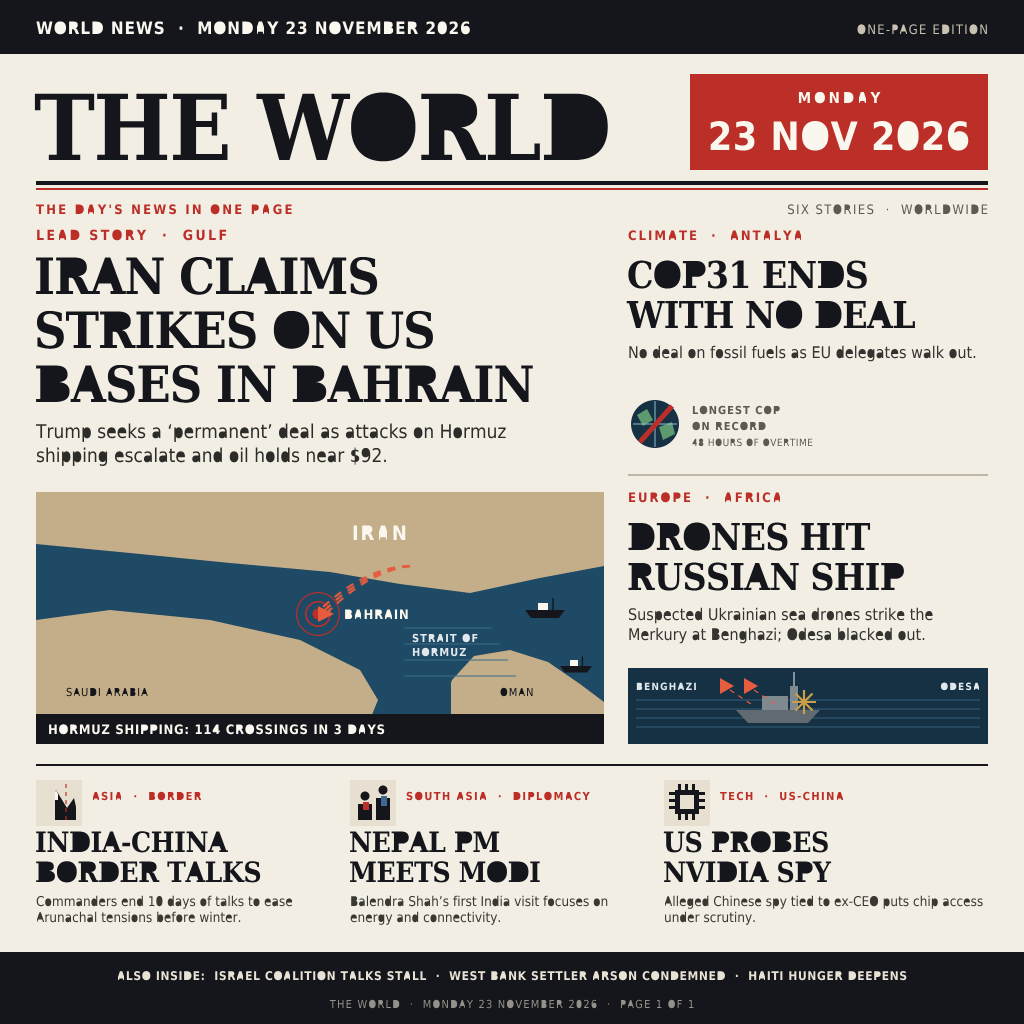
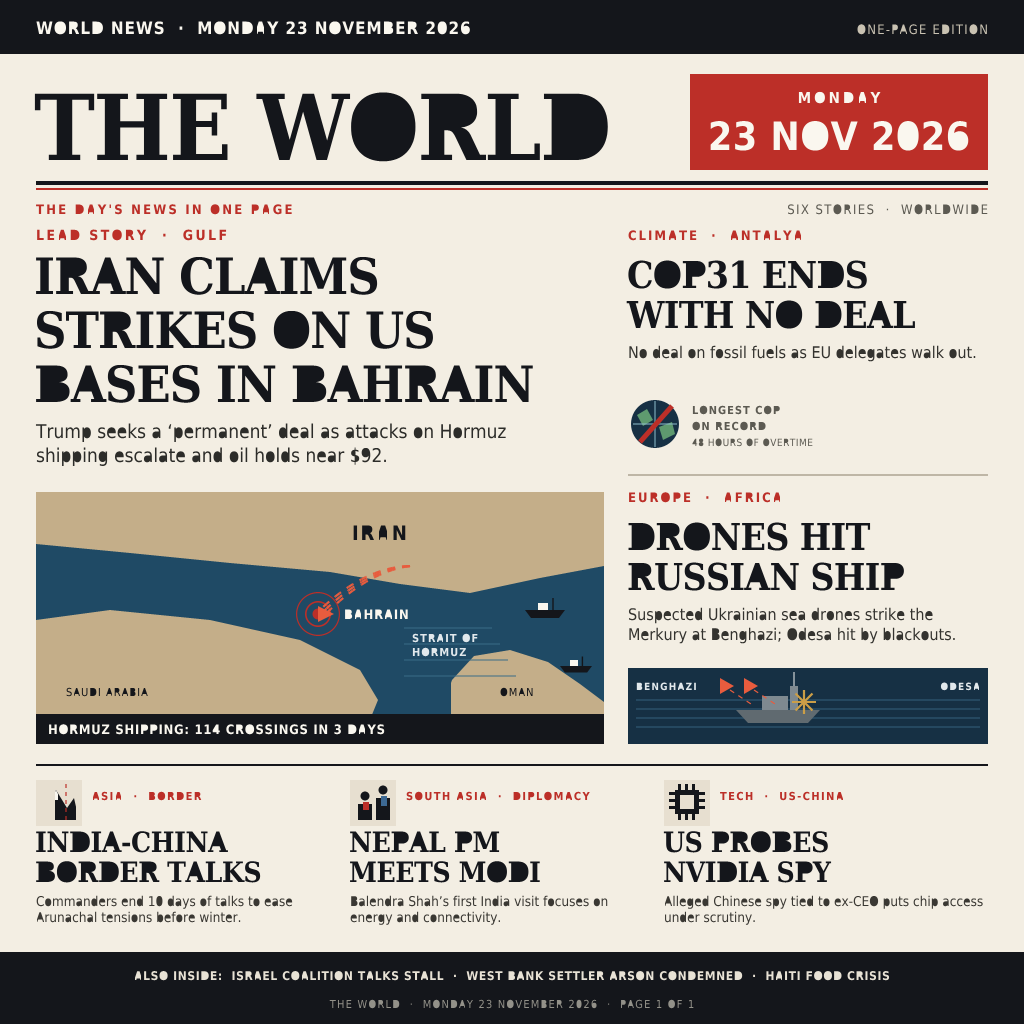
Tighten story labels and name the signing wallet as owner
Keeps the page strictly to what was reported and makes the repository proof
match the keypair that signs the entry.

🤖 Generated with Codebuff

Changed region(s): [[0.125, 0.9375, 0.875, 0.9688], [0.8125, 0.5938, 0.9375, 0.625], [0.3438, 0.5, 0.4062, 0.5312]]

diff --git a/main.py b/main.py
@@ -295,7 +295,7 @@ disc(318, 614, 5.5, RED)
 ring(318, 614, 13, 1.6, RED, 0.75)
 ring(318, 614, 22, 1.2, RED, 0.45)
 text(344, 619, 'BAHRAIN', 'sansb', 13, WHITE, 0.8)
-text(352, 540, 'IRAN', 'sansb', 20, WHITE, 1.8)
+text(352, 540, 'IRAN', 'sansb', 20, INK, 1.8)
 text(66, 696, 'SAUDI ARABIA', 'sans', 11, INK, 1.0)
 text(500, 696, 'OMAN', 'sans', 11, INK, 1.0)
 # strike arcs from Iran to Bahrain
@@ -347,7 +347,7 @@ fill_rect(RX0, 474, RX1, 476, (190, 182, 166))
 text(RX0, 502, 'EUROPE  ·  AFRICA', 'sansb', 13, RED, 2.0)
 text(RX0 - 1, 550, 'DRONES HIT', 'serif', 37, INK, -0.6)
 text(RX0 - 1, 590, 'RUSSIAN SHIP', 'serif', 37, INK, -0.6)
-paragraph(RX0, 620, 'Suspected Ukrainian sea drones strike the Merkury at Benghazi; Odesa blacked out.',
+paragraph(RX0, 620, 'Suspected Ukrainian sea drones strike the Merkury at Benghazi; Odesa hit by blackouts.',
           'sans', 16, 352, 20, (52, 51, 47))
 # sea strip with ship and drones
 fill_rect(RX0, 668, RX1, 744, DEEP)
@@ -407,7 +407,7 @@ for x0, x1, kick, h1, h2, deck, icon in cols:
 
 # ---------------------------------------------------------------- footer
 fill_rect(0, 952, W, H, INK)
-text(512, 980, 'ALSO INSIDE:  ISRAEL COALITION TALKS STALL  ·  WEST BANK SETTLER ARSON CONDEMNED  ·  HAITI HUNGER DEEPENS',
+text(512, 980, 'ALSO INSIDE:  ISRAEL COALITION TALKS STALL  ·  WEST BANK SETTLER ARSON CONDEMNED  ·  HAITI FOOD CRISIS',
      'sansb', 12, (232, 226, 213), 0.6, 'center')
 text(512, 1008, 'THE WORLD  ·  MONDAY 23 NOVEMBER 2026  ·  PAGE 1 OF 1', 'sans', 11, (147, 145, 137), 1.2, 'center')
 
